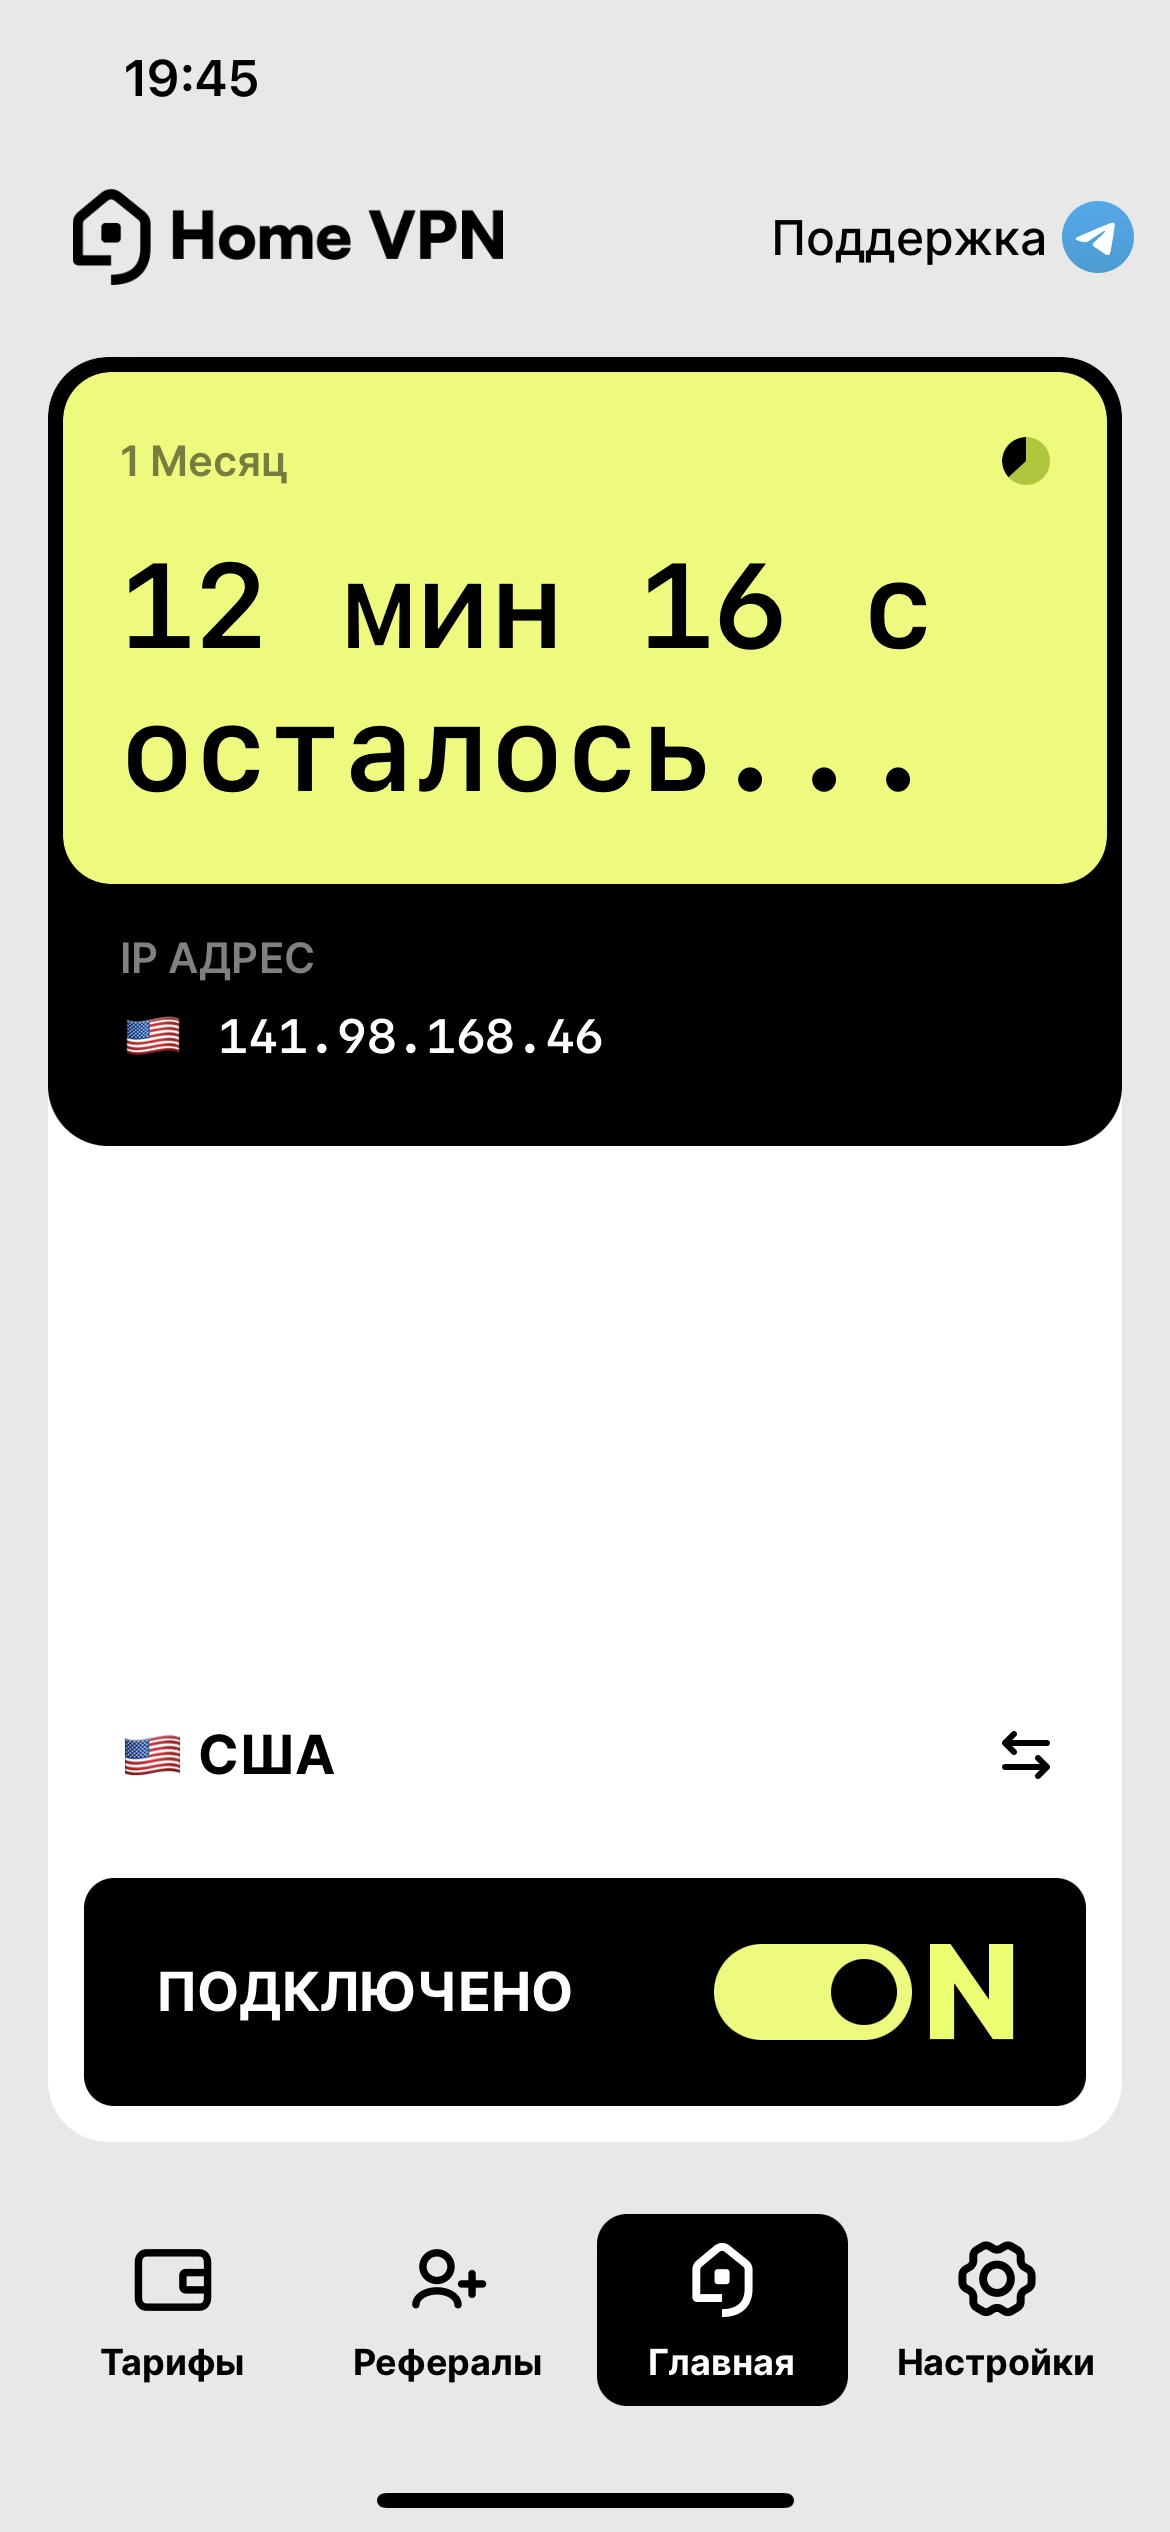
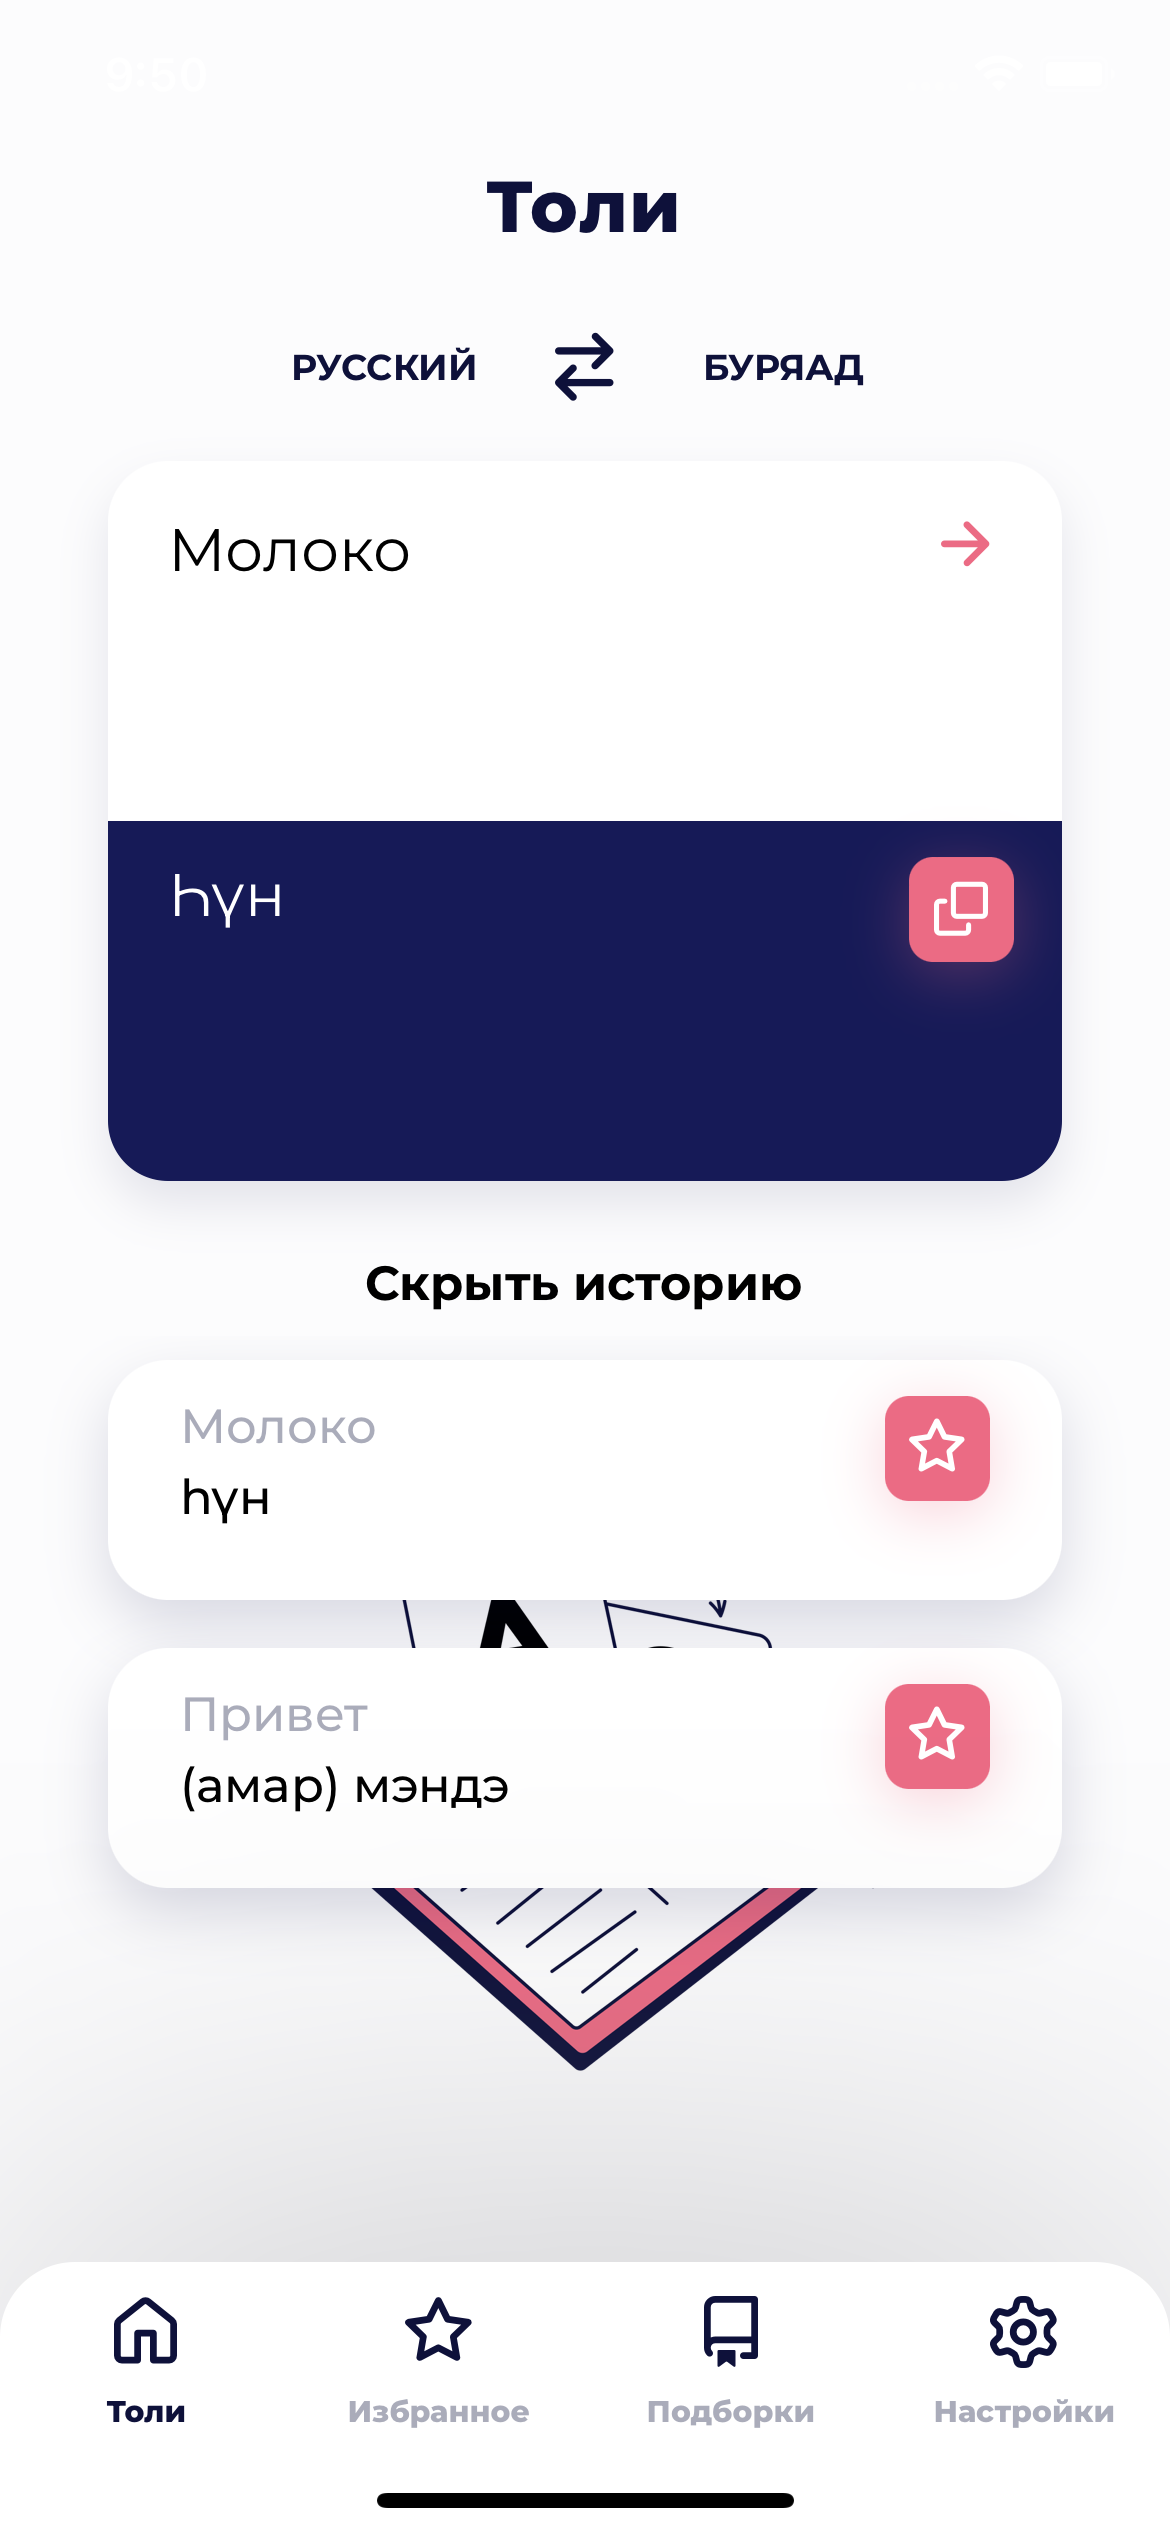
add features

diff --git a/src/Components/Features/Features.jsx b/src/Components/Features/Features.jsx
@@ -4,53 +4,51 @@ import "./Features.scss";
 function Features() {
   const features = [
     {
-      title: "Анонимный Браузинг",
+      title: "Переводчик",
       description:
-        "Просматривайте веб-страницы анонимно с помощью Home VPN. Защитите свою личность и активность в сети от посторонних глаз и сохраните конфиденциальность во время работы в Интернете.",
+        "В приложении есть встроенная функция \"Переводчик\", которая позволит Вам быстро перевести нужное слово",
       // description:
       // 'You can enjoy a fast, secure connection without any third party knowing your true identity.',
-      fontawesome_icon_name: "shield-alt",
-    },
-
-    {
-      title: "Мы по всему миру",
-      description:
-        "Насладитесь глобальным Интернетом с помощью Home VPN. Мы обеспечиваем быстрый и надежный доступ к Интернету независимо от вашего местонахождения.",
       fontawesome_icon_name: "globe",
     },
 
     {
-      title: "Бесплатно",
-      // description:
-      //   'Home VPN uses points which you earn by watching a quick ad.',
+      title: "Тесты как у Duolingo",
       description:
-        "Наслаждайтесь всеми преимуществами Home VPN бесплатно. Наш сервис совершенно бесплатен в использовании, что позволяет вам получать доступ в интернет, оставаться на связи и защищать свои устройства без каких-либо затрат.",
+        "Интерактивные тесты бурятского языка, подобные тем, что представлены в популярном приложении Duolingo",
+      fontawesome_icon_name: "globe",
+    },
+
+    {
+      title: "Карточки для запоминания",
+      description:
+        "Техника повторения слов и фраз позволит развить Вашу запоминающую способность",
       fontawesome_icon_name: "magic",
     },
 
     {
-      title: "Конфиденциальность",
+      title: "Добавление своих слов",
       description:
-        "Защитите свою деятельность в Интернете и личную информацию от хакеров и слежки.",
-      fontawesome_icon_name: "lock",
+        "Вы также можете добавлять свои собственные слова и фразы в приложение. Так, они всегда будут под рукой",
+      fontawesome_icon_name: "pencil",
     },
     {
-      title: "Защитите свои устройства",
+      title: "Формирование привычки",
       description:
-        "Обеспечьте безопасность и защиту своих устройств iOS и Android с помощью Home VPN. Защититесь от вирусов, вредоносных программ и других онлайн-угроз, а также защитите свою личную информацию и данные.",
+        "Надеемся, что уделяя всего несколько минут в день у Вас получится увидеть первые результаты!",
+      fontawesome_icon_name: "bell",
+    },
+    {
+      title: "Android и IOS приложения",
+      description:
+        "Для Вашего удобства приложение доступно на IOS и на Android",
       fontawesome_icon_name: "mobile",
-    },
-    {
-      title: "Скорость и стабильность",
-      description:
-        "Оставайтесь на связи благодаря быстрому и стабильному интернет-соединению, где бы вы ни находились. Home VPN обеспечивает надежный доступ к сети, чтобы вы могли без перебоев смотреть потоковое видео, просматривать и загружать файлы.",
-      fontawesome_icon_name: "bolt",
     },
   ];
 
   return (
     <div className="features">
-      <h1>Защити свою цифровую жизнь с помощью Home VPN</h1>
+      <h1>Помощник в изучении бурятского у Вас в кармане</h1>
       <div className="features-list">
         {features.map((feature, i) => {
           const iconClassName = `iconTop fas fa-${feature.fontawesome_icon_name} fa-stack-1x`;

diff --git a/public/index.html b/public/index.html
@@ -2,63 +2,46 @@
 <html lang="en">
   <head>
     <meta charset="utf-8" />
-<!-- 
-    <script
-      async
-      defer
-      data-website-id="e977498a-364b-4bbf-b596-11c56d9bc7eb"
-      src="https://umami-production-5e8a.up.railway.app/umami.js"
-    ></script> -->
 
     <link rel="icon" type="image/png" sizes="32x32" href="/favicon-32x32.png" />
     <link rel="icon" type="image/png" sizes="16x16" href="/favicon-16x16.png" />
     <link rel="manifest" href="%PUBLIC_URL%/manifest.json" />
 
     <meta name="viewport" content="width=device-width, initial-scale=1" />
-    <meta name="Home VPN" content="Your home country internet" />
+    <meta name="Толи" content="Прилоежение для изучения бурятского языка" />
 
-    <meta property="og:title" content="Home VPN" />
+    <meta property="og:title" content="Толи" />
     <meta property="og:type" content="website" />
-    <meta property="og:url" content="homevpn.org" />
+    <meta property="og:url" content="buryad-toli.site" />
     <meta
       property="og:image"
-      content="https://homevpn.org/assets/og-preview.png"
+      content="https://buryad-toli.site/assets/og-preview.png"
     />
 
     <!-- HTML Meta Tags -->
     <title>Толи — приложение для изучения бурятского языка</title>
     <meta
       name="description"
-      content="Don't waste another minute with unsecure data. Download Home VPN today and experience the freedom of anonymous, encrypted Internet."
+      content="Толи - Ваш личный помощник в изучении бурятского языка - используй переводчик, проходи тесты, запоминай лексику, сделай обучение привычкой!"
     />
-
-    <!-- Facebook Meta Tags -->
-    <meta property="og:url" content="homevpn.org" />
-    <meta property="og:type" content="website" />
-    <meta property="og:title" content="Home VPN — Your home country internet" />
-    <meta
-      property="og:description"
-      content="Don't waste another minute with unsecure data. Download Home VPN today and experience the freedom of anonymous, encrypted Internet."
-    />
-    <meta
-      property="og:image"
-      content="https://homevpn.org/assets/og-preview.png"
-    />
+    <meta name="keywords" content="бурятский язык, бурятский переводчик, изучение бурятского языка, как сказать по-бурятски, как сказать на бурятском,
+    как будет на бурятском, буряад хэл, бурятия, улан-удэ, бурятский улан-удэ, самоучитель бурятского, электронный учебник бурятского языка, бурятский язык переводчик
+    " />
 
     <!-- Twitter Meta Tags -->
     <meta name="twitter:card" content="summary_large_image" />
-    <meta property="og:url" content="homevpn.org" />
+    <meta property="og:url" content="buryad-toli.site" />
     <meta
       name="twitter:title"
-      content="Home VPN — Your home country internet"
+      content="Толи — приложение для изучения бурятского языка"
     />
     <meta
       name="twitter:description"
-      content="Don't waste another minute with unsecure data. Download Home VPN today and experience the freedom of anonymous, encrypted Internet."
+      content="Толи - Ваш личный помощник в изучении бурятского языка - используй переводчик, проходи тесты, запоминай лексику, сделай обучение привычкой!"
     />
     <meta
       property="og:image"
-      content="https://homevpn.org/assets/og-preview.png"
+      content="https://buryad-toli.site/assets/og-preview.png"
     />
 
     <link rel="preconnect" href="https://fonts.googleapis.com">
